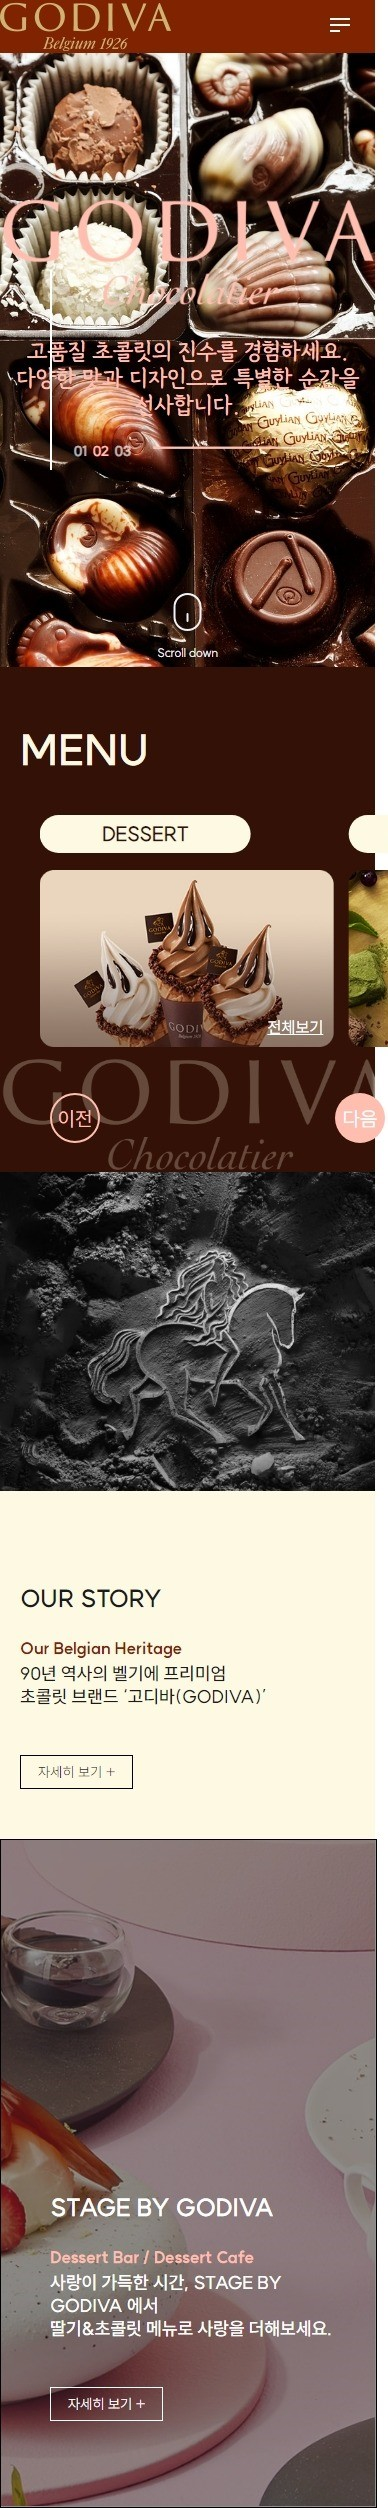
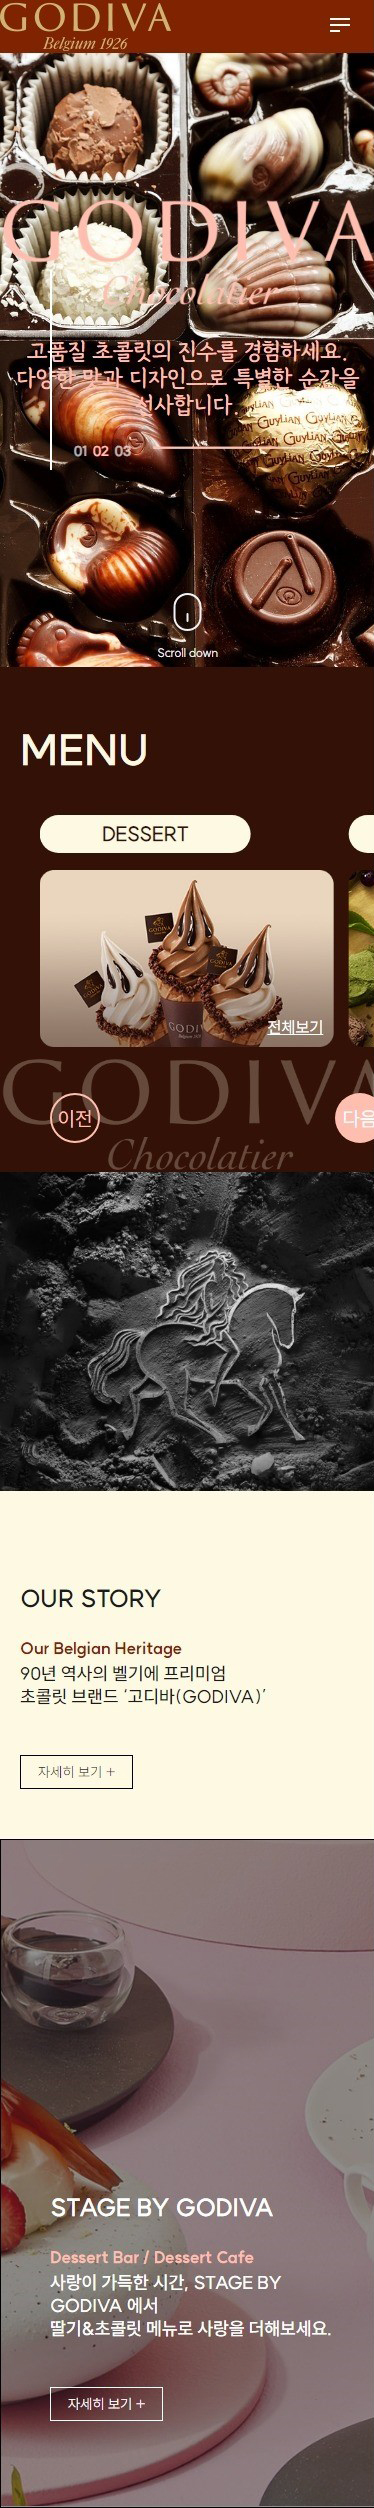
고디바 이미지

diff --git a/css/style.css b/css/style.css
@@ -144,7 +144,7 @@ h2 {font-size: 140px; font-weight: lighter; position: relative; letter-spacing: 
 .web section.finesofa .cont_box .mobile:hover span img {margin-top: -750px;}
 .web section.yoeat .cont_box .mobile:hover span img {margin-top: -1470px;}
 .web section .cont_box .mobile:hover span img {margin-top: -1780px;}
-.web section.godiva .cont_box .mobile:hover span img {margin-top: -1060px;}
+.web section.godiva .cont_box .mobile:hover span img {margin-top: -1000px;}
 .web section .cont_box .mobile > img {width: 100%; }
 
 .web section .cont_box .mobileclick {font-size: 28px;  color: #fff; position: absolute; top: 844px; right: 28px; border-radius: 59% 41% 70% 30% / 30% 56% 44% 70% ; width: 200px; height: 70px; background:  #383c22;}
